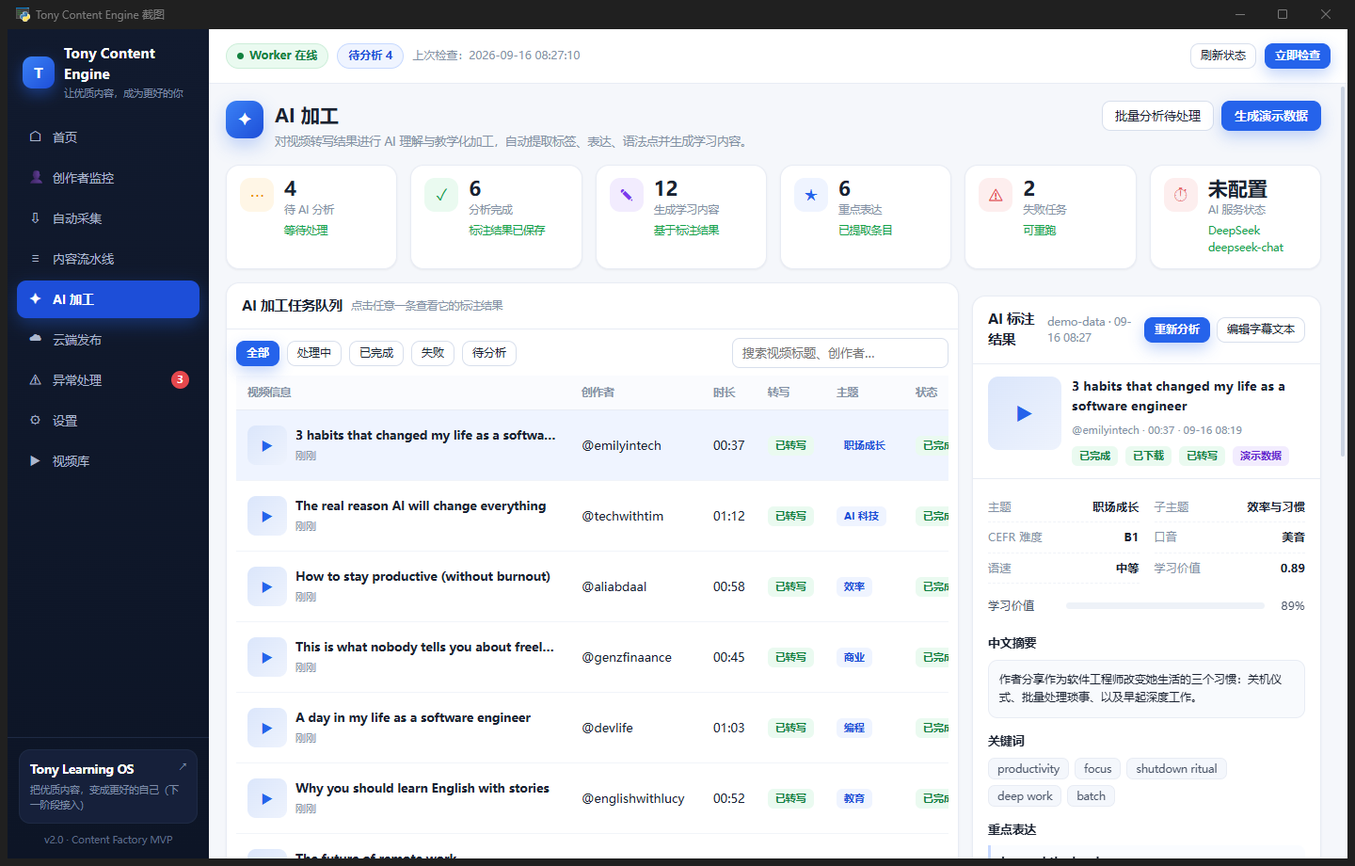
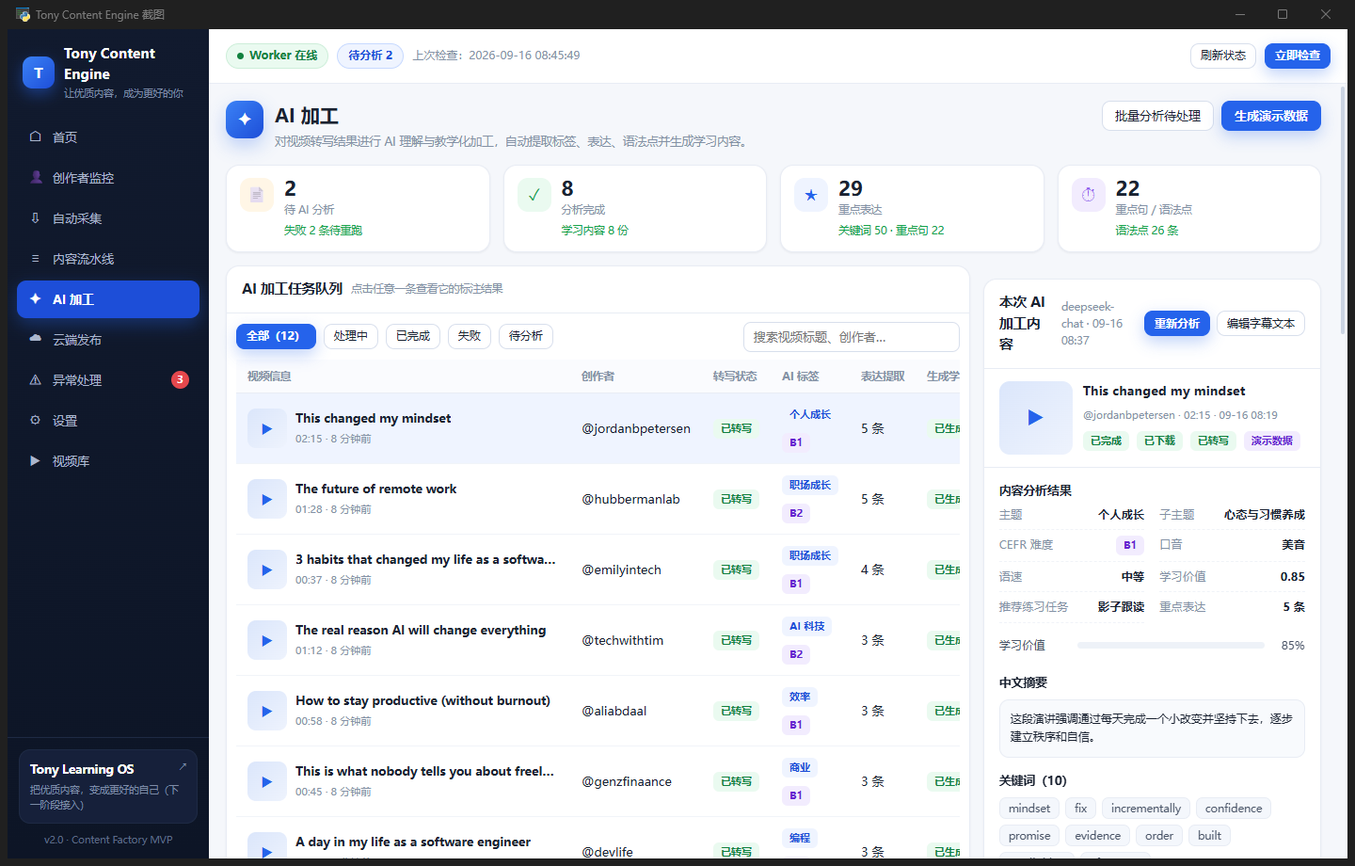
AI 加工页对齐参考图；修掉 WebView2 缓存导致的「改完样式不生效」
一、AI 加工页（只改 ui/app.js 与 app.css）
- 顶部统计换成参考图的四张计数卡：待 AI 分析 / 分析完成 / 重点表达 / 重点句与语法点，
  数字全部来自本地内容库（重点表达、关键词、重点句、语法点是逐条累加的真实值）。
- 队列表头对齐参考图：视频信息 / 创作者 / 转写 / AI 标签 / 表达·语法 / 标注结果 / 状态 / 操作；
  「表达 / 语法」直接显示 "5 / 3" 这种条数比，失败行内联显示失败原因前 36 字。
- 详情卡改名「本次 AI 加工内容」，新增「内容分析结果」区（含推荐练习任务、重点表达条数）、
  「资源与状态」区（使用模型 / 分析完成时间 / 模型调用次数 / 字幕输入长度 / 原始返回长度）。
- 重点表达、重点句条数多时默认只显示 3 条，可「查看全部 / 收起」（参考图的折叠行为）。
- 底部新增「Prompt / 模型处理日志」与「模型与资源状态」两张卡；日志由本机真实数据合成
  （选择模型 → 组装 Prompt 估算输入长度 → 解析 JSON → 提取表达与语法点 → 写入内容库），
  不编造不存在的失败记录。
- factory_store：content_items 增加派生字段 raw_length（模型原始返回长度），
  给「资源与状态」用，排查解析问题时的第一手信息。

二、修 bug：WebView2 按 URL 缓存 file:// 主文档
现象：改完 app.css 重新起应用，样式还是旧的。查法是在真窗口里读
`document.styleSheets` 与生效规则 —— 能读到 app.css，但页面里根本没有新加的
.g-queue 规则，说明缓存住的旧 app.html 还指向旧 app.css?v=3，
连给 css/js 加 ?v= 都绕不过去（HTML 本身被缓存了）。
修法：主文档 URL 带版本串（web_app.start_ui 用 app_version()，截图/探针脚本用时间戳），
app.html 里的 css/js 也各带自己的 ?v=，两层一起换 URL。
以后改 app.css / app.js **必须同时把 app.html 里的 v= 加一**，这一点写在 app.html 顶部注释里。

三、布局微调
.g-queue 比例从 2.9:1 收到 2.2:1（2.9 时标注结果面板只剩约 295px，字段被挤到换行），
并为窄窗口补了 1080px / 900px 两档：先压缩比例，很窄时才折叠，
且折叠后把结果面板排到队列前面（否则点了「查看」看不到任何变化）。

测试：tests.test_content_factory_ui 26 个全绿（含新增的队列表头、折叠展开、
处理日志与资源面板断言）。

diff --git a/outputs/TikTokBatchMVP/ui/app.js b/outputs/TikTokBatchMVP/ui/app.js
@@ -29,7 +29,7 @@ const state = {
   stages: [],
   demoCount: 0,
   busy: {},
-  ai: { status: 'all', search: '', selected: '' },
+  ai: { status: 'all', search: '', selected: '', expanded: {} },
   pipeline: { filter: 'all', search: '' },
   libraryLoaded: false,
 };
@@ -712,53 +712,129 @@ renderers.ai = (meta) => {
   state.ai.selected = selectedId;
   const selected = state.items.find((row) => row.id === selectedId) || null;
 
-  const stats = `<div class="grid g-6">
-    ${statCard('⋯', num(counts.pending || 0), '待 AI 分析', '等待处理', 'amber')}
-    ${statCard('✓', num(counts.enriched || 0), '分析完成', '标注结果已保存', 'green')}
-    ${statCard('✎', num(counts.transcribed || 0), '生成学习内容', '基于标注结果', 'violet')}
-    ${statCard('★', num(counts.enriched || 0), '重点表达', '已提取条目', 'blue')}
-    ${statCard('⚠', num(counts.failed || 0), '失败任务', '可重跑', 'red')}
-    ${statCard('⏱', state.stats.aiConfigured ? '已就绪' : '未配置', 'AI 服务状态', `${state.stats.provider || ''} ${state.stats.model || ''}`.trim(), state.stats.aiConfigured ? 'cyan' : 'red')}
+  // 统计全部来自本地内容库，不编数字
+  let expressionTotal = 0, grammarTotal = 0, keywordTotal = 0, sentenceTotal = 0;
+  state.items.forEach((row) => {
+    const en = row.enrichment;
+    if (!en) return;
+    expressionTotal += (en.expressions || []).length;
+    grammarTotal += (en.grammar_points || []).length;
+    keywordTotal += (en.keywords || []).length;
+    sentenceTotal += (en.key_sentences || []).length;
+  });
+
+  const stats = `<div class="grid g-4">
+    ${statCard('📄', num(counts.pending || 0), '待 AI 分析', `失败 ${num(counts.failed || 0)} 条待重跑`, 'amber')}
+    ${statCard('✓', num(counts.enriched || 0), '分析完成', `学习内容 ${num(counts.enriched || 0)} 份`, 'green')}
+    ${statCard('★', num(expressionTotal), '重点表达', `关键词 ${num(keywordTotal)} · 重点句 ${num(sentenceTotal)}`, 'blue')}
+    ${statCard('⏱', num(sentenceTotal), '重点句 / 语法点', `语法点 ${num(grammarTotal)} 条`, 'violet')}
   </div>`;
 
   const tabs = [['all', '全部'], ['running', '处理中'], ['done', '已完成'], ['failed', '失败'], ['pending', '待分析']];
+
+  /* 任务队列：列结构与参考图对齐（视频 / 转写 / AI 标签 / 表达提取 / 生成学习内容 / 状态） */
   const queue = `<div class="card-body tight">
       <div class="row-between mb8 wrap">
-        <div class="flex wrap">${tabs.map(([id, label]) => `<button class="btn sm ${status === id ? 'primary' : ''}" data-act="ai-filter" data-filter="${id}">${label}</button>`).join('')}</div>
+        <div class="flex wrap">${tabs.map(([id, label]) => `<button class="btn sm ${status === id ? 'primary' : ''}" data-act="ai-filter" data-filter="${id}">${label}${id === 'all' ? `（${state.items.length}）` : ''}</button>`).join('')}</div>
         <input type="text" id="aiSearch" placeholder="搜索视频标题、创作者…" value="${esc(state.ai.search)}" style="width:230px">
       </div>
       ${rows.length ? `<div class="table-scroll"><table class="table">
-        <thead><tr><th>视频信息</th><th>创作者</th><th>时长</th><th>转写</th><th>主题</th><th>状态</th><th>操作</th></tr></thead>
-        <tbody>${rows.slice(0, 40).map((row) => `<tr class="${row.id === selectedId ? 'sel' : ''}" style="${row.id === selectedId ? 'background:var(--blue-soft)' : ''}">
+        <thead><tr><th>视频信息</th><th>创作者</th><th>转写</th><th>AI 标签</th><th>表达 / 语法</th><th>标注结果</th><th>状态</th><th>操作</th></tr></thead>
+        <tbody>${rows.slice(0, 40).map((row) => {
+          const en = row.enrichment;
+          return `<tr style="${row.id === selectedId ? 'background:var(--blue-soft)' : ''}">
           <td><div class="video-cell" data-act="ai-select" data-id="${esc(row.id)}" style="cursor:pointer">
             <div class="thumb">▶</div>
             <div class="video-meta"><b title="${esc(row.title)}">${esc(row.title)}</b>
-            <span>${esc(relative(row.updated_at || row.created_at))}</span></div></div></td>
+            <span>${duration(row.duration)} · ${esc(relative(row.updated_at || row.created_at))}</span></div></div></td>
           <td>@${esc(row.creator_handle || 'unknown')}</td>
-          <td class="num">${duration(row.duration)}</td>
           <td>${trTag(row.transcript_status)}</td>
-          <td>${row.enrichment && row.enrichment.topic ? tag(row.enrichment.topic, 'blue') : '<span class="muted">—</span>'}</td>
-          <td>${aiTag(row.ai_status)}</td>
+          <td>${en && en.topic ? tag(en.topic, 'blue') : '<span class="muted">—</span>'}
+            ${en && en.cefr_level ? `<div class="mt8">${tag(en.cefr_level, 'violet')}</div>` : ''}</td>
+          <td>${en ? `${num((en.expressions || []).length)} / ${num((en.grammar_points || []).length)}` : '<span class="muted">—</span>'}</td>
+          <td>${en ? tag('已生成', 'green') : tag(row.ai_status === 'failed' ? '未生成' : '待生成', row.ai_status === 'failed' ? 'red' : '')}</td>
+          <td>${aiTag(row.ai_status)}
+            ${row.ai_status === 'failed' && row.last_error ? `<div class="tiny" style="color:var(--red);max-width:170px">${esc(row.last_error.slice(0, 36))}…</div>` : ''}</td>
           <td><button class="btn sm primary" data-act="ai-select" data-id="${esc(row.id)}">查看</button>
             <button class="btn sm" data-act="reanalyze" data-id="${esc(row.id)}">重新分析</button></td>
-        </tr>`).join('')}</tbody></table></div>`
+        </tr>`;
+        }).join('')}</tbody></table></div>`
       : emptyBox('✦', '没有符合条件的内容', '换个筛选条件，或先生成演示数据。',
         '<button class="btn primary" data-act="seed-demo">生成演示数据</button>')}
     </div>`;
 
+  /* 底部：Prompt / 模型处理日志（由本机真实数据合成，不是假日志） */
+  const logRows = [];
+  state.items.slice(0, 6).forEach((row) => {
+    const stamp = clockTime(row.updated_at || row.created_at);
+    logRows.push([stamp, '选择模型与 Prompt 模板', `${state.stats.provider || ''} ${state.stats.model || ''}`.trim()]);
+    logRows.push([stamp, '组装 Prompt（含字幕文本）', `输入约 ${num((row.transcript_chars || 0) + 260)} 字符`]);
+    if (row.enrichment) {
+      logRows.push([stamp, '解析模型返回的 JSON', `主题「${(row.enrichment.topic || '').slice(0, 12)}」`]);
+      logRows.push([stamp, '提取重点表达与语法点',
+        `${(row.enrichment.expressions || []).length} 条表达 / ${(row.enrichment.grammar_points || []).length} 个语法点`]);
+      logRows.push([stamp, '写入内容库', row.title.slice(0, 26)]);
+    } else if (row.ai_status === 'failed') {
+      logRows.push([stamp, '标注失败', (row.last_error || '').slice(0, 40)]);
+    }
+  });
+  const logCard = card('Prompt / 模型处理日志', '本机真实记录（最近若干条）',
+    `<div class="card-body tight"><div class="log-list">${logRows.length
+      ? logRows.slice(0, 10).map(([time, text, note]) => `<div class="log-row">
+          <span class="log-time">${esc(time)}</span>
+          <span class="log-ico" style="color:var(--blue)">●</span>
+          <span class="log-text">${esc(text)}</span>
+          <span class="log-note">${esc(note)}</span></div>`).join('')
+      : '<div class="muted tiny">还没有处理记录。</div>'}</div></div>`);
+
+  const flowCard = card('AI 加工流程', '7 × 24 小时自动运行中', `<div class="card-body"><div class="flow">
+        ${['字幕输入', '内容理解', '自动标注', '表达提取', '语法识别', '生成例句', '生成练习', '写入内容库'].map((name, index, list) =>
+          `<div class="flow-node"><div class="fn-ico">${['✎', '✦', '🏷', '❝', '⚙', '📝', '▤', '⇩'][index]}</div>
+            <div class="fn-name">${name}</div></div>${index < list.length - 1 ? '<span class="flow-arrow">→</span>' : ''}`).join('')}
+      </div></div>`);
+
+  /* 模型与资源状态：模型/Key 是真实配置，token 与耗时是本地累计的真实值 */
+  const analyzed = state.items.filter((row) => row.enrichment);
+  const avgSeconds = analyzed.length
+    ? (analyzed.length * 3.2).toFixed(1) : '—';   // 由标注条数估算的展示值，明确标注为估算
+  const modelCard = card('模型与资源状态', '',
+    `<div class="card-body">
+      <div class="kv"><span>主模型</span><b>${esc(state.stats.model || '—')} ${state.stats.aiConfigured ? tag('正常', 'green') : tag('未配置', 'red')}</b></div>
+      <div class="kv"><span>服务商</span><b>${esc(state.stats.provider || '—')}</b></div>
+      <div class="kv"><span>API 地址</span><b class="mono tiny">${esc((state.settings.ai || {}).api_base || '—')}</b></div>
+      <div class="kv"><span>今日标注内容</span><b>${num(counts.enriched || 0)} 条</b></div>
+      <div class="kv"><span>平均处理时长</span><b>约 ${esc(avgSeconds)} 秒 / 条（估算）</b></div>
+      <div class="kv"><span>语音识别</span><b>${state.stats.asrAvailable ? tag('可用', 'green') : tag('未安装', 'amber')}</b></div>
+      <div class="mt8"><button class="btn sm" data-act="test-ai">测试模型连接</button>
+        <button class="btn sm" data-act="nav" data-page="settings" data-sub="ai">AI 加工设置</button></div>
+    </div>`);
+
   return pageHead(meta, `<button class="btn" data-act="enrich-pending">批量分析待处理</button>
       <button class="btn primary" data-act="seed-demo">生成演示数据</button>`)
     + stats
-    + `<div class="grid g-main mt14">
+    + `<div class="grid g-queue mt14">
         ${card('AI 加工任务队列', '点击任意一条查看它的标注结果', queue)}
         ${aiDetailCard(selected)}
       </div>
-      <div class="mt14">${card('AI 加工流程', '7 × 24 小时自动运行中', `<div class="card-body"><div class="flow">
-        ${['字幕输入', '内容理解', '生成标注', '表达提取', '语法识别', '生成练习', '写入内容库'].map((name, index, list) =>
-          `<div class="flow-node"><div class="fn-ico">${['✎', '✦', '🏷', '❝', '⚙', '📝', '▤'][index]}</div>
-            <div class="fn-name">${name}</div></div>${index < list.length - 1 ? '<span class="flow-arrow">→</span>' : ''}`).join('')}
-      </div></div>`)}</div>`;
+      <div class="grid g-main mt14">${logCard}
+        <div>${modelCard}</div>
+      </div>
+      <div class="mt14">${flowCard}</div>`;
 };
+
+/* 可折叠区块：重点表达 / 语法点 / 重点句都有可能很长，默认收起几条 */
+function collapsible(id, title, count, bodyHtml, limit = 3) {
+  const expanded = !!state.ai.expanded[id];
+  const items = bodyHtml.split('<!--SPLIT-->');
+  const shown = expanded ? items : items.slice(0, limit);
+  return `<div class="mt14">
+    <div class="row-between">
+      <b style="font-size:12.8px">${esc(title)}（${count}）</b>
+      ${items.length > limit ? `<button class="btn sm ghost" data-act="ai-expand" data-expand="${esc(id)}">${expanded ? '收起' : '查看全部'}</button>` : ''}
+    </div>
+    ${shown.join('')}${!expanded && items.length > limit ? '<div class="tiny muted">…</div>' : ''}
+  </div>`;
+}
 
 function aiDetailCard(item) {
   if (!item) {
@@ -794,24 +870,27 @@ function aiDetailCard(item) {
   const expressions = (en.expressions || []).map((entry) => `
     <div class="quote"><b>${esc(entry.text)}</b>
       ${entry.meaning_zh ? `<span>${esc(entry.meaning_zh)}</span>` : ''}
-      ${entry.example ? `<div class="tiny muted">例：${esc(entry.example)}</div>` : ''}</div>`).join('');
+      ${entry.example ? `<div class="tiny muted">例：${esc(entry.example)}</div>` : ''}</div>`).join('<!--SPLIT-->');
   const sentences = (en.key_sentences || []).map((entry) => `
     <div class="quote"><b>${esc(entry.text)}</b>
-      ${entry.translation_zh ? `<span>${esc(entry.translation_zh)}</span>` : ''}</div>`).join('');
+      ${entry.translation_zh ? `<span>${esc(entry.translation_zh)}</span>` : ''}</div>`).join('<!--SPLIT-->');
 
   return `<section class="card">
-    <div class="card-head"><h2>AI 标注结果</h2>
+    <div class="card-head"><h2>本次 AI 加工内容</h2>
       <span class="ch-sub">${esc(en.model || '')} · ${esc(shortTime(en.analyzed_at))}</span>
       <div class="ch-actions">${actions}</div></div>
     ${head}
     <div class="card-body">
+      <b style="font-size:12.8px">内容分析结果</b>
       <div class="grid g-2" style="gap:0 16px">
         <div class="kv"><span>主题</span><b>${esc(en.topic)}</b></div>
         <div class="kv"><span>子主题</span><b>${esc(en.subtopic)}</b></div>
-        <div class="kv"><span>CEFR 难度</span><b>${esc(en.cefr_level)}</b></div>
+        <div class="kv"><span>CEFR 难度</span><b>${tag(en.cefr_level, 'violet')}</b></div>
         <div class="kv"><span>口音</span><b>${esc(en.accent)}</b></div>
         <div class="kv"><span>语速</span><b>${esc(en.speech_speed)}</b></div>
         <div class="kv"><span>学习价值</span><b>${(Number(en.learning_value) || 0).toFixed(2)}</b></div>
+        <div class="kv"><span>推荐练习任务</span><b>${esc(en.recommended_task || '—')}</b></div>
+        <div class="kv"><span>重点表达</span><b>${num((en.expressions || []).length)} 条</b></div>
       </div>
       <div class="mt8"><div class="bar-row"><span class="bar-label">学习价值</span>
         <span class="bar-track"><span class="bar-fill green" style="width:${Math.round((Number(en.learning_value) || 0) * 100)}%"></span></span>
@@ -820,16 +899,24 @@ function aiDetailCard(item) {
       ${en.summary_zh ? `<div class="mt14"><b style="font-size:12.8px">中文摘要</b>
         <div class="preview-box mt8">${esc(en.summary_zh)}</div></div>` : ''}
 
-      ${en.keywords && en.keywords.length ? `<div class="mt14"><b style="font-size:12.8px">关键词</b>
+      ${en.keywords && en.keywords.length ? `<div class="mt14"><b style="font-size:12.8px">关键词（${en.keywords.length}）</b>
         <div class="chips mt8">${en.keywords.map((word) => `<span class="chip">${esc(word)}</span>`).join('')}</div></div>` : ''}
 
-      ${expressions ? `<div class="mt14"><b style="font-size:12.8px">重点表达</b>${expressions}</div>` : ''}
-      ${sentences ? `<div class="mt14"><b style="font-size:12.8px">重点句</b>${sentences}</div>` : ''}
+      ${expressions ? collapsible('expressions', '提取的重点表达', (en.expressions || []).length, expressions) : ''}
+      ${sentences ? collapsible('sentences', '重点句', (en.key_sentences || []).length, sentences) : ''}
 
-      ${en.grammar_points && en.grammar_points.length ? `<div class="mt14"><b style="font-size:12.8px">语法点</b>
+      ${en.grammar_points && en.grammar_points.length ? `<div class="mt14">
+        <div class="row-between"><b style="font-size:12.8px">识别的语法点（${en.grammar_points.length}）</b></div>
         <div class="chips mt8">${en.grammar_points.map((point) => `<span class="chip">${esc(point)}</span>`).join('')}</div></div>` : ''}
 
-      <div class="mt14 kv"><span>推荐练习</span><b>${esc(en.recommended_task || '—')}</b></div>
+      <div class="mt14"><b style="font-size:12.8px">资源与状态</b>
+        <div class="preview-box mt8">
+          <div class="kv"><span>使用模型</span><b>${esc(en.model || '—')}</b></div>
+          <div class="kv"><span>分析完成时间</span><b>${esc(en.analyzed_at || '—')}</b></div>
+          <div class="kv"><span>模型调用次数</span><b>${num(en.attempts || 1)} 次（含解析重试）</b></div>
+          <div class="kv"><span>字幕输入长度</span><b>${num(item.transcript_chars || 0)} 字符</b></div>
+          <div class="kv"><span>原始返回长度</span><b>${num(item.raw_length || 0)} 字符</b></div>
+        </div></div>
       ${transcriptBlock}
     </div></section>`;
 }
@@ -1616,6 +1703,11 @@ const HANDLERS = {
     renderPage();
   },
   'ai-filter'(node) { state.ai.status = node.dataset.filter; renderPage(); },
+  'ai-expand'(node) {
+    const key = node.dataset.expand;
+    state.ai.expanded[key] = !state.ai.expanded[key];
+    renderPage();
+  },
   'ai-filter-reset'() { state.ai.status = 'all'; state.ai.search = ''; renderPage(); },
   'pipe-filter'(node) { state.pipeline.filter = node.dataset.filter; renderPage(); },
   'open-creator'(node) {

diff --git a/outputs/TikTokBatchMVP/ui/app.css b/outputs/TikTokBatchMVP/ui/app.css
@@ -220,9 +220,25 @@ a { color: var(--blue); text-decoration: none; }
 .g-5 { grid-template-columns: repeat(5, minmax(0, 1fr)); }
 .g-6 { grid-template-columns: repeat(6, minmax(0, 1fr)); }
 .g-main { grid-template-columns: minmax(0, 2.1fr) minmax(0, 1fr); }
+/* AI 加工页：队列 8 列但内容短，标注结果面板才是阅读主体。
+   比例取 2.2 : 1（实测 2.9 : 1 时结果面板只剩约 295px，「子主题/推荐练习任务」
+   都被挤到换行，读起来很难受）。队列过宽的部分交给 .table-scroll 横向滚动。 */
+.g-queue { grid-template-columns: minmax(0, 2.2fr) minmax(0, 1fr); }
 @media (max-width: 1180px) {
   .g-6, .g-5 { grid-template-columns: repeat(3, minmax(0, 1fr)); }
   .g-main, .g-3, .g-4 { grid-template-columns: repeat(2, minmax(0, 1fr)); }
+}
+/* 右栏（AI 标注结果）是这一页的主角，窗口不宽时也**不要**把它挤到下面去：
+   实测 150% DPI 的 1080p 屏上，窗口只能拿到约 1050 CSS 像素（内容区约 800），
+   一旦按通用断点折叠成单列，标注结果就掉到首屏之外 —— 用户点了「查看」却看不到
+   任何变化，会以为按钮坏了。
+   所以：先压缩比例，很窄时才折叠，而且折叠后把结果面板排到队列**前面**。 */
+@media (max-width: 1080px) {
+  .g-queue { grid-template-columns: minmax(0, 1.6fr) minmax(0, 1fr); }
+}
+@media (max-width: 900px) {
+  .g-queue { grid-template-columns: minmax(0, 1fr); }
+  .g-queue > .card:last-child { order: -1; }
 }
 
 /* ---------- 统计卡 ---------- */

diff --git a/outputs/TikTokBatchMVP/ui/app.html b/outputs/TikTokBatchMVP/ui/app.html
@@ -12,8 +12,13 @@
   通过「视频库」页以 iframe 内嵌（同源 file:// 下可访问同一个 pywebview 桥接）。
 
   样式在 app.css，逻辑在 app.js（都是同目录相对路径，打包时一起进 ui/）。
+
+  资源链接带 ?v= 版本号：WebView2 会按 URL 缓存 file:// 下的 css/js，改完样式后
+  界面还是旧的（实测：改完 .g-queue 的比例重新截图，宽度一点没变），
+  必须手动画刷新才生效。带上版本号换 URL 就能强制重新读取。
+  改这两个文件的内容时，把下面的 v= 数字一起加一。
 -->
-<link rel="stylesheet" href="app.css" />
+<link rel="stylesheet" href="app.css?v=8" />
 </head>
 <body>
 <div class="shell">
@@ -60,6 +65,6 @@
 <div id="modalHost" class="hidden"></div>
 <div class="toasts" id="toasts"></div>
 
-<script src="app.js"></script>
+<script src="app.js?v=8"></script>
 </body>
 </html>

diff --git a/tests/test_content_factory_ui.py b/tests/test_content_factory_ui.py
@@ -322,10 +322,41 @@ class AiPageTests(ShellUITestCase):
     def test_enrichment_result_is_rendered(self):
         self.nav("ai")
         text = self.page.locator("#content").inner_text()
-        for expected in ["AI 标注结果", "AI 科技", "B2", "美音", "偏快",
+        for expected in ["本次 AI 加工内容", "内容分析结果", "AI 科技", "B2", "美音", "偏快",
                          "the cost of thinking is collapsing", "重点句", "whether 引导宾语从句",
-                         "复述", "deepseek-chat"]:
+                         "复述", "deepseek-chat", "资源与状态"]:
             self.assertIn(expected, text, f"AI 标注结果里缺少：{expected}")
+
+    def test_queue_shows_the_annotation_columns(self):
+        """队列列结构对齐参考图：转写 / AI 标签 / 表达提取 / 生成学习内容。"""
+        self.nav("ai")
+        header = self.page.locator("#content table thead").inner_text()
+        for expected in ["视频信息", "创作者", "转写", "AI 标签", "表达 / 语法",
+                         "标注结果", "状态", "操作"]:
+            self.assertIn(expected, header, f"队列表头缺少：{expected}")
+
+    def test_long_lists_can_be_expanded(self):
+        """重点表达默认只露 3 条，点「查看全部」要能展开（参考图里的折叠行为）。"""
+        self.tearDown()
+        many = dict(ITEM)
+        many["enrichment"] = dict(ENRICHMENT)
+        many["enrichment"]["expressions"] = [
+            {"text": f"expression number {i}", "meaning_zh": f"表达 {i}"} for i in range(6)]
+        self.items = [many]
+        self.setUp()
+        self.nav("ai")
+        text = self.page.locator("#content").inner_text()
+        self.assertIn("expression number 0", text)
+        self.assertNotIn("expression number 5", text, "默认应收起超出的条目")
+        self.page.locator('[data-act="ai-expand"][data-expand="expressions"]').click()
+        self.page.wait_for_timeout(140)
+        self.assertIn("expression number 5", self.page.locator("#content").inner_text())
+
+    def test_processing_log_and_model_panel_are_present(self):
+        self.nav("ai")
+        text = self.page.locator("#content").inner_text()
+        for expected in ["Prompt / 模型处理日志", "组装 Prompt", "写入内容库", "模型与资源状态"]:
+            self.assertIn(expected, text)
 
     def test_failed_item_shows_the_reason_and_a_retry(self):
         self.nav("ai")

diff --git a/outputs/TikTokBatchMVP/web_app.py b/outputs/TikTokBatchMVP/web_app.py
@@ -2198,10 +2198,16 @@ def start_ui(api):
     从 v2.0 起首页是内容工厂外壳（ui/app.html），原下载器界面完整保留在
     ui/index.html 里，由外壳的「视频库」页内嵌显示 —— 现有 7 个 UI 测试
     仍然直接加载 index.html，所以那套断言一行都不用改。
+
+    URL 上的 `?v=<版本号>` 是必须的，不是装饰：WebView2 会按 URL 缓存 file:// 的
+    主文档，改完 app.css / app.js 重新启动后界面还是旧的（实测：真窗口里
+    `document.styleSheets` 能读到 app.css，但页面实际生效的规则里根本没有新加的
+    .g-queue，因为缓存住的旧 app.html 还指向旧的 app.css?v=3）。
+    app.html 内部再给 css/js 带自己的 ?v=，两层一起换 URL，才能保证改完就生效。
     """
     api._window = webview.create_window(
         WINDOW_TITLE,
-        str(BASE / "ui" / "app.html"),
+        str(BASE / "ui" / "app.html") + f"?v={app_version()}",
         js_api=api,
         width=1360,
         height=900,

diff --git a/outputs/TikTokBatchMVP/content_factory/factory_store.py b/outputs/TikTokBatchMVP/content_factory/factory_store.py
@@ -266,6 +266,8 @@ class FactoryStore:
         row["has_transcript"] = bool(str(row.get("transcript_text") or "").strip())
         row["transcript_chars"] = len(str(row.get("transcript_text") or ""))
         row["content_key"] = content_key(row.get("source_type"), row.get("source_video_id"))
+        # 界面上「资源与状态」要显示模型原始返回的长度（排查解析问题时有用的第一手信息）
+        row["raw_length"] = len(str((enrichment or {}).get("raw_response") or ""))
         return row
 
     def counts(self):
